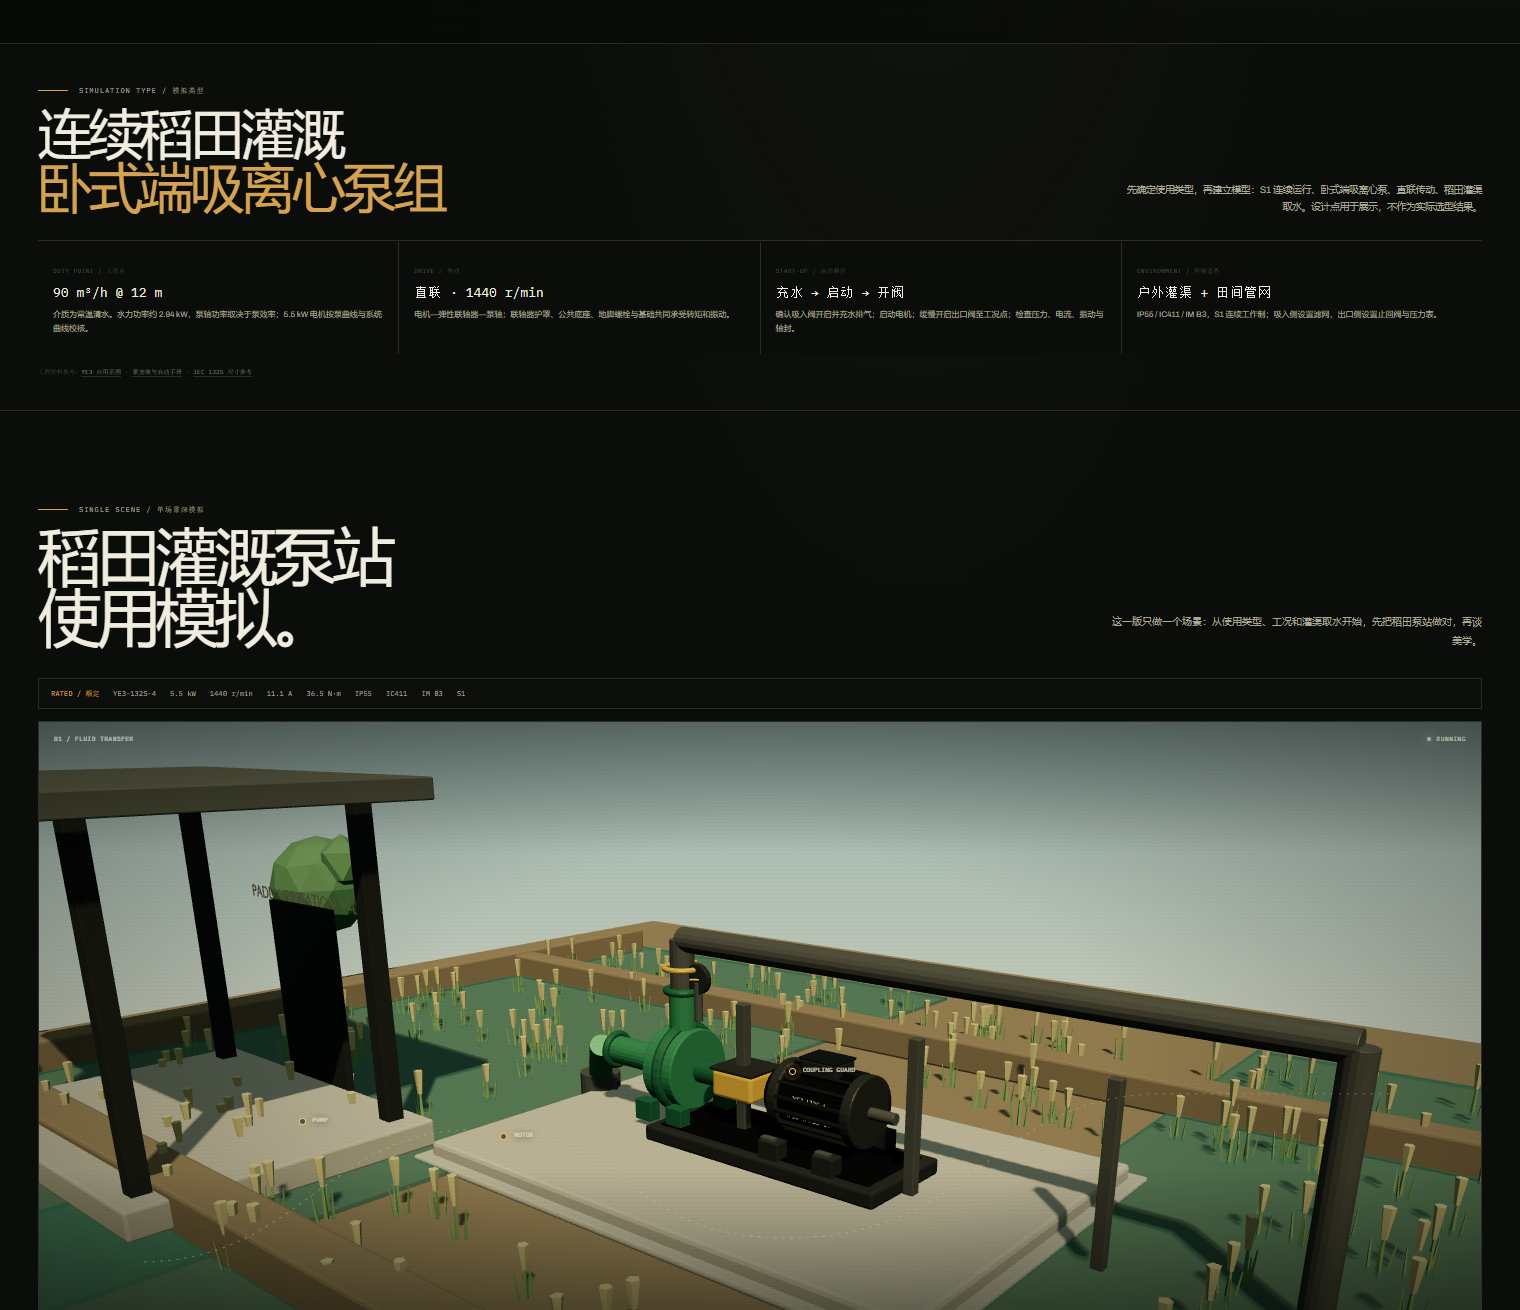
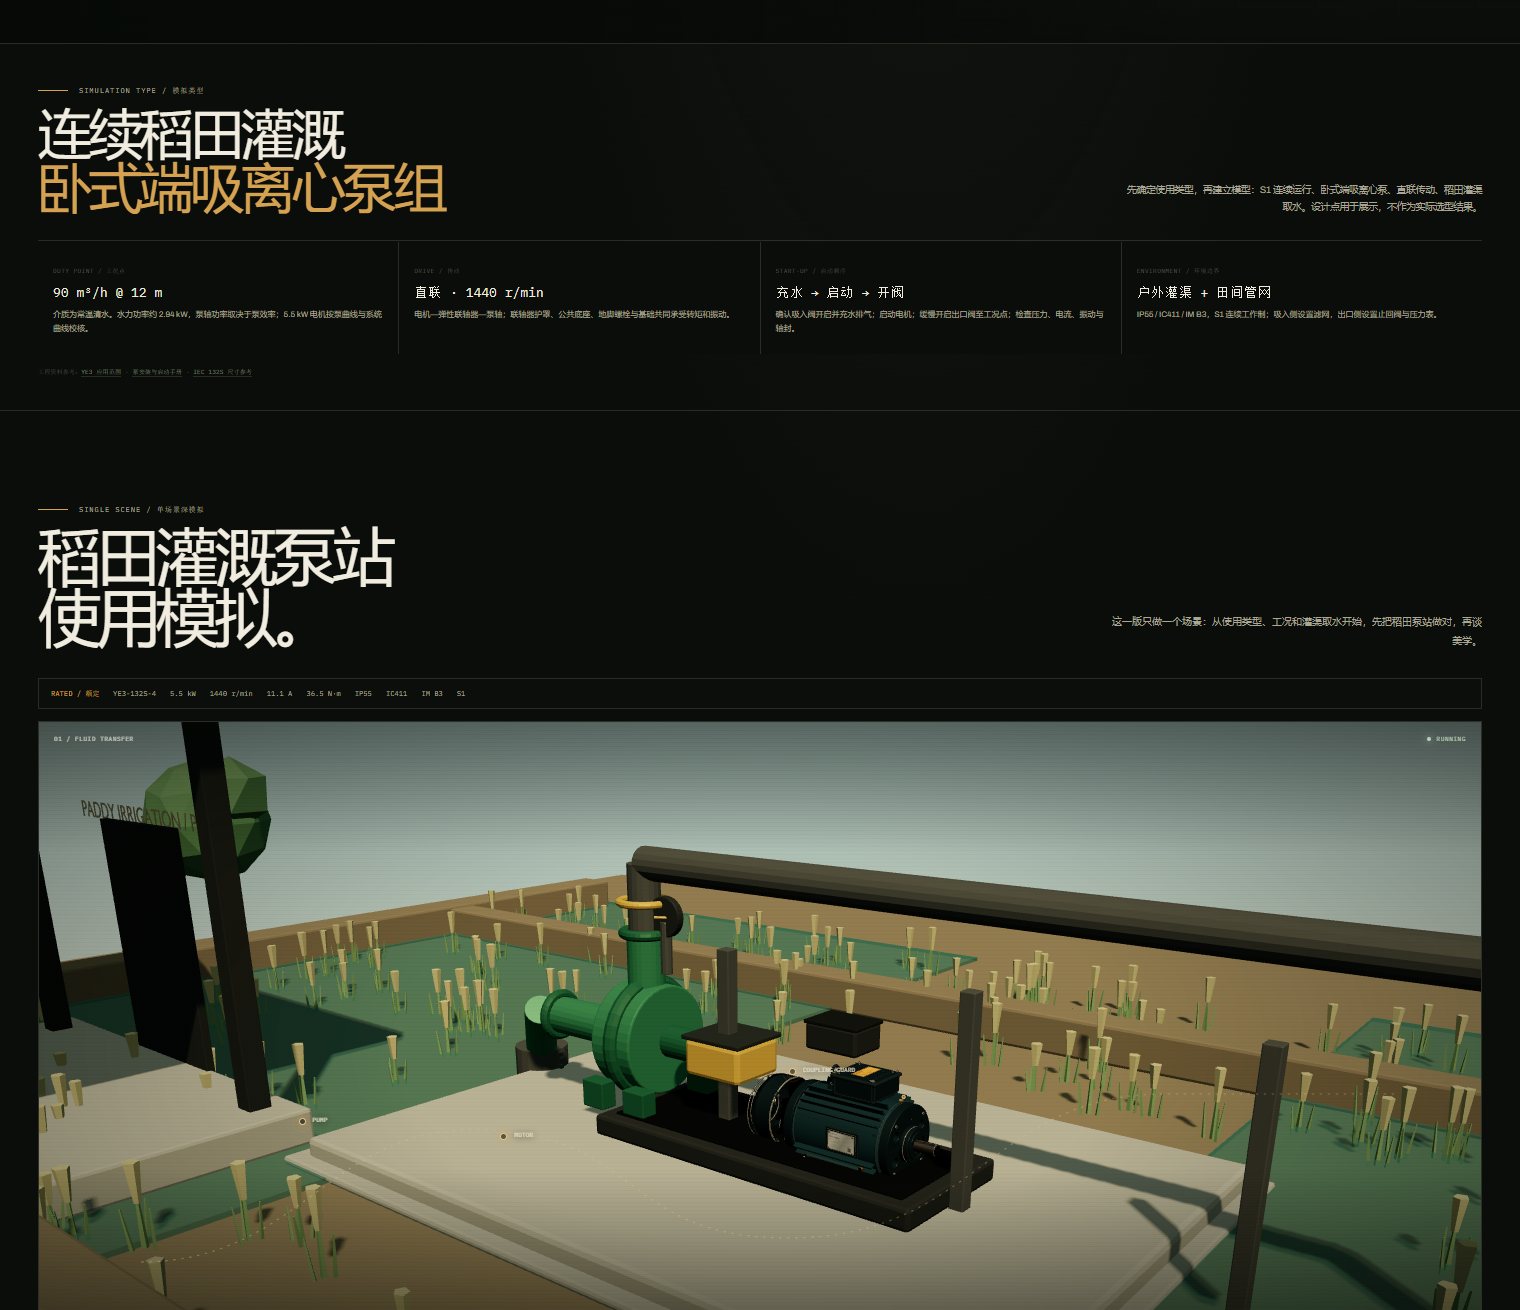
Use the same detailed 22-part motor in the paddy scene

Changed region(s): [[0.0, 0.5496, 0.9895, 1.0]]

diff --git a/src/scenarios/paddy-gltf.js b/src/scenarios/paddy-gltf.js
@@ -4,6 +4,8 @@ import '@fontsource/ibm-plex-mono/500.css';
 import './photo.css';
 import * as THREE from 'three';
 import { GLTFLoader } from 'three/addons/loaders/GLTFLoader.js';
+import * as DATA from '../data/motor-data.js';
+import { Motor } from '../model/motor.js';
 
 const $ = (s) => document.querySelector(s);
 const $$ = (s) => [...document.querySelectorAll(s)];
@@ -34,12 +36,14 @@ sun.shadow.camera.bottom = -8;
 sun.shadow.bias = -0.0005;
 scene.add(sun, sun.target);
 
-camera.position.set(3.6, 2.35, 4.35);
-camera.lookAt(0, 0.55, 0);
-camera.fov = 36;
+camera.position.set(2.8, 1.9, 3.4);
+camera.lookAt(0.05, 0.45, 0);
+camera.fov = 34;
 camera.updateProjectionMatrix();
 
 let model = null;
+let detailedMotor = null;
+let motorSpin = 0;
 let impeller = null;
 let valveWheel = null;
 let gaugeNeedle = null;
@@ -51,6 +55,8 @@ const loader = new GLTFLoader();
 loader.load('/models/paddy_pump_station.glb', (gltf) => {
   model = gltf.scene;
   scene.add(model);
+  model.updateMatrixWorld(true);
+  const motorParts = [];
   model.traverse((obj) => {
     if (!obj.isMesh) return;
     obj.castShadow = true;
@@ -58,7 +64,33 @@ loader.load('/models/paddy_pump_station.glb', (gltf) => {
     if (obj.name === 'PumpCasing' || obj.name === 'PumpSuction' || obj.name === 'PumpDischarge') {
       casing.push(obj);
     }
+    if (obj.name.startsWith('Motor') || obj.name.startsWith('AnchorPlate')) {
+      motorParts.push(obj);
+    }
   });
+  const motorBox = new THREE.Box3();
+  motorParts.forEach((part) => motorBox.expandByObject(part));
+  const targetCenter = motorBox.getCenter(new THREE.Vector3());
+  const targetMinY = motorBox.min.y;
+  motorParts.forEach((part) => { part.visible = false; });
+  // Use the same 22-part Motor model as the main dossier, so the application
+  // scene cannot drift into a visibly different motor.
+  detailedMotor = new Motor(renderer, DATA);
+  detailedMotor.root.rotation.y = Math.PI / 2;
+  scene.add(detailedMotor.root);
+  detailedMotor.root.updateMatrixWorld(true);
+  const detailBox = new THREE.Box3().setFromObject(detailedMotor.root);
+  const detailSize = detailBox.getSize(new THREE.Vector3());
+  const scale = Math.min(1.15, Math.max(0.78, (motorBox.max.x - motorBox.min.x) / detailSize.x));
+  detailedMotor.root.scale.setScalar(scale);
+  detailedMotor.root.updateMatrixWorld(true);
+  const scaledBox = new THREE.Box3().setFromObject(detailedMotor.root);
+  const scaledCenter = scaledBox.getCenter(new THREE.Vector3());
+  detailedMotor.root.position.x += targetCenter.x - scaledCenter.x;
+  detailedMotor.root.position.z += targetCenter.z - scaledCenter.z;
+  detailedMotor.root.position.y += targetMinY - scaledBox.min.y;
+  detailedMotor.setSpin(0);
+  window.__detailedMotor = detailedMotor;
   impeller = model.getObjectByName('Impeller');
   valveWheel = model.getObjectByName('ValveWheel');
   gaugeNeedle = model.getObjectByName('GaugeNeedle');
@@ -182,6 +214,10 @@ function animate(now) {
     if (impeller) impeller.rotation.x += pumpState.running ? step * (2.5 + pumpState.valve * 5.5) : 0;
     if (valveWheel) valveWheel.rotation.z = (1 - pumpState.valve) * 2.4;
     if (gaugeNeedle) gaugeNeedle.rotation.z = 0.1 + Math.min(1, (pumpState.running ? 12 * (1 + .25 * (1 - pumpState.valve)) : 0) / 15) * 1.1;
+    if (detailedMotor) {
+      motorSpin = (motorSpin + (pumpState.running ? step * (4.0 + pumpState.valve * 3.0) : 0)) % (Math.PI * 2);
+      detailedMotor.setSpin(motorSpin);
+    }
   }
   renderer.render(scene, camera);
 }

diff --git a/scripts/inspect-blender-motor.py b/scripts/inspect-blender-motor.py
@@ -1,0 +1,9 @@
+import bpy
+from mathutils import Vector
+bpy.ops.wm.open_mainfile(filepath=r"C:\Users\18313\Documents\deepseek-harness\default-workspace\blender\AXIS_YE3_132S_Motor.blend")
+print("SCENE", bpy.context.scene.name)
+for col in bpy.data.collections:
+    print("COLL", col.name, len(col.objects))
+for o in bpy.data.objects:
+    if o.type == 'MESH':
+        print("OBJ", o.name, tuple(round(v,4) for v in o.dimensions), tuple(round(v,4) for v in o.location))

diff --git a/scripts/find-mojibake.py b/scripts/find-mojibake.py
@@ -1,0 +1,5 @@
+from pathlib import Path
+p=Path(r"src/scenarios/paddy-gltf.js")
+for i,line in enumerate(p.read_text(encoding="utf-8").splitlines(),1):
+    if any(x in line for x in ["鍑","鍋","娉","姘","杞","璐","闃","鏂","涓","鏃"]):
+        print(i, line)
